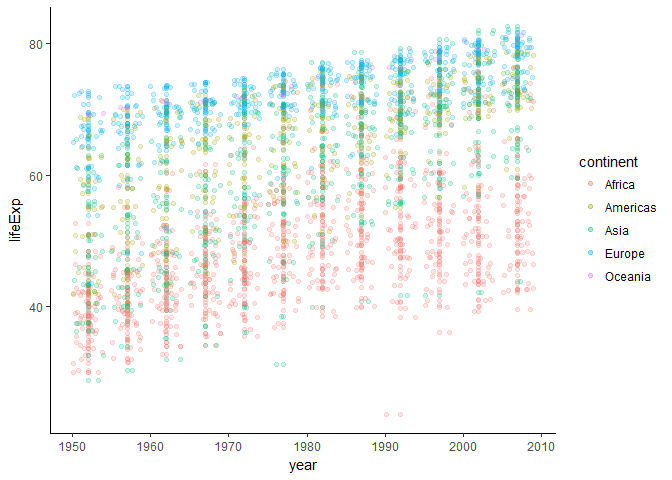
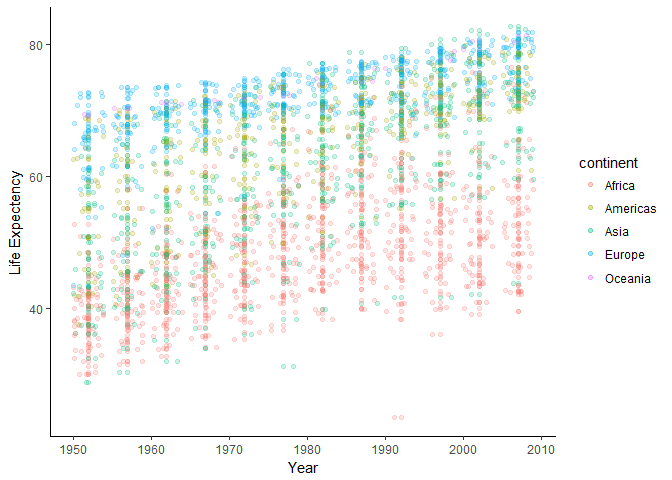
R Studio

diff --git a/hw03/Readme.md b/hw03/Readme.md
@@ -6,12 +6,12 @@ Here is a [link to homework 3](https://github.com/Kozp/STAT545-hw-Kozik-Pavel/bl
 
 *You’re encouraged to reflect on what was hard/easy, problems you solved, helpful tutorials you read, etc. Give credit to your sources, whether it’s a blog post, a fellow student, an online tutorial, etc.*
 
-There was no single excruciatingly difficult problem in this weeks homework. Rather, there were many moderate sized hurdles spread throughout the project. As an example, moving the plot legend, renaming its title, creating it manually, and other such questions each took their own time to resolve. Similar questions were encountered throughout, as another example, testing summarize functions and which were or were not avaliable. Standard deviations and quantiles for instance are easily called for using the summarize function, but standard errors must seemningly be calculated by the user. 
+There was no single excruciatingly difficult problem in this weeks homework. Rather, there were many moderate sized hurdles spread throughout the project. As an example, moving the plot legend, renaming its title, creating it manually, and other such questions each took their own time to resolve. Similar questions were encountered throughout, as another example, testing summarize functions and which were or were not available. Standard deviations and quantiles for instance are easily called for using the summarize function, but standard errors must seemingly be calculated by the user. 
 
-Often my first resource for unresolved questions was use of the *?*, e.g. ?coord_cartesian. Though this to was sometimes not informative, for instance, while ?coord_cartesian provides valuable information on that specific function, I think I've come to realize that this function is actually something of a subfunction to scale_y_continuous. There doesn't seem to be any reason then to use coord_caresian over scale_y_continuous, yet this was mostly found through trial and error.
+Often my first resource for unresolved questions was use of the *?*, e.g. ?coord_cartesian. Though this to was sometimes not informative, for instance, while ?coord_cartesian provides valuable information on that specific function, I think I've come to realize that this function is actually something of a sub-function to scale_y_continuous. There doesn't seem to be any reason then to use coord_cartesian over scale_y_continuous, yet this was mostly found through trial and error.
 
-Sometimes I find that I am aware gglot or dplyer is capable of doing something, but do not recall the specific function on how to do so. This is often resolved through a quick google search.
+Sometimes I find that I am aware gglot or dplyer is capable of doing something, but do not recall the specific function on how to do so. This is often resolved through a quick internet search.
 
-Useful resources otherwise were the course website page on basic data care [basic data care](http://stat545.com/block006_care-feeding-data.html), [ggplot themes](https://stat545.com/cm008-notes_and_exercises.html), pboth of Jenny's tutorials on dplyer [1](http://stat545.com/block009_dplyr-intro.html) [2](http://stat545.com/block010_dplyr-end-single-table.html) and [ggplot documentation](http://ggplot2.tidyverse.org/reference/).
+Useful resources otherwise were the course website page on basic data care [basic data care](http://stat545.com/block006_care-feeding-data.html), [ggplot themes](https://stat545.com/cm008-notes_and_exercises.html), both of Jenny's tutorials on dplyer [1](http://stat545.com/block009_dplyr-intro.html) [2](http://stat545.com/block010_dplyr-end-single-table.html) and [ggplot documentation](http://ggplot2.tidyverse.org/reference/).
 
 

diff --git a/hw03/hw3.md b/hw03/hw3.md
@@ -112,7 +112,7 @@ On top of each line are three circles, as also shown in the top right legend of 
   coord_cartesian(ylim = c(0,120000)) +
   scale_y_continuous(expand= c(0,0), breaks=seq(0,120000,10000), lim = c(0,120000)) +  
   xlab("Continent") +
-  ylab("Mean GDP") +
+  ylab("GDP") +
   
 #Creating the legend  
   annotate(geom = "point", x = 4.7, y = 100000, size = 5, color = "black") +
@@ -192,6 +192,8 @@ gapminder %>%
 ggplot(aes(y = lifeExp, x = year, group = continent, colour = continent)) +
 geom_jitter(alpha = .20)+
 geom_point(alpha = .20)+
+xlab("Year") +
+ylab("Life Expectency") +
 aesthetictheme
 ```
 
